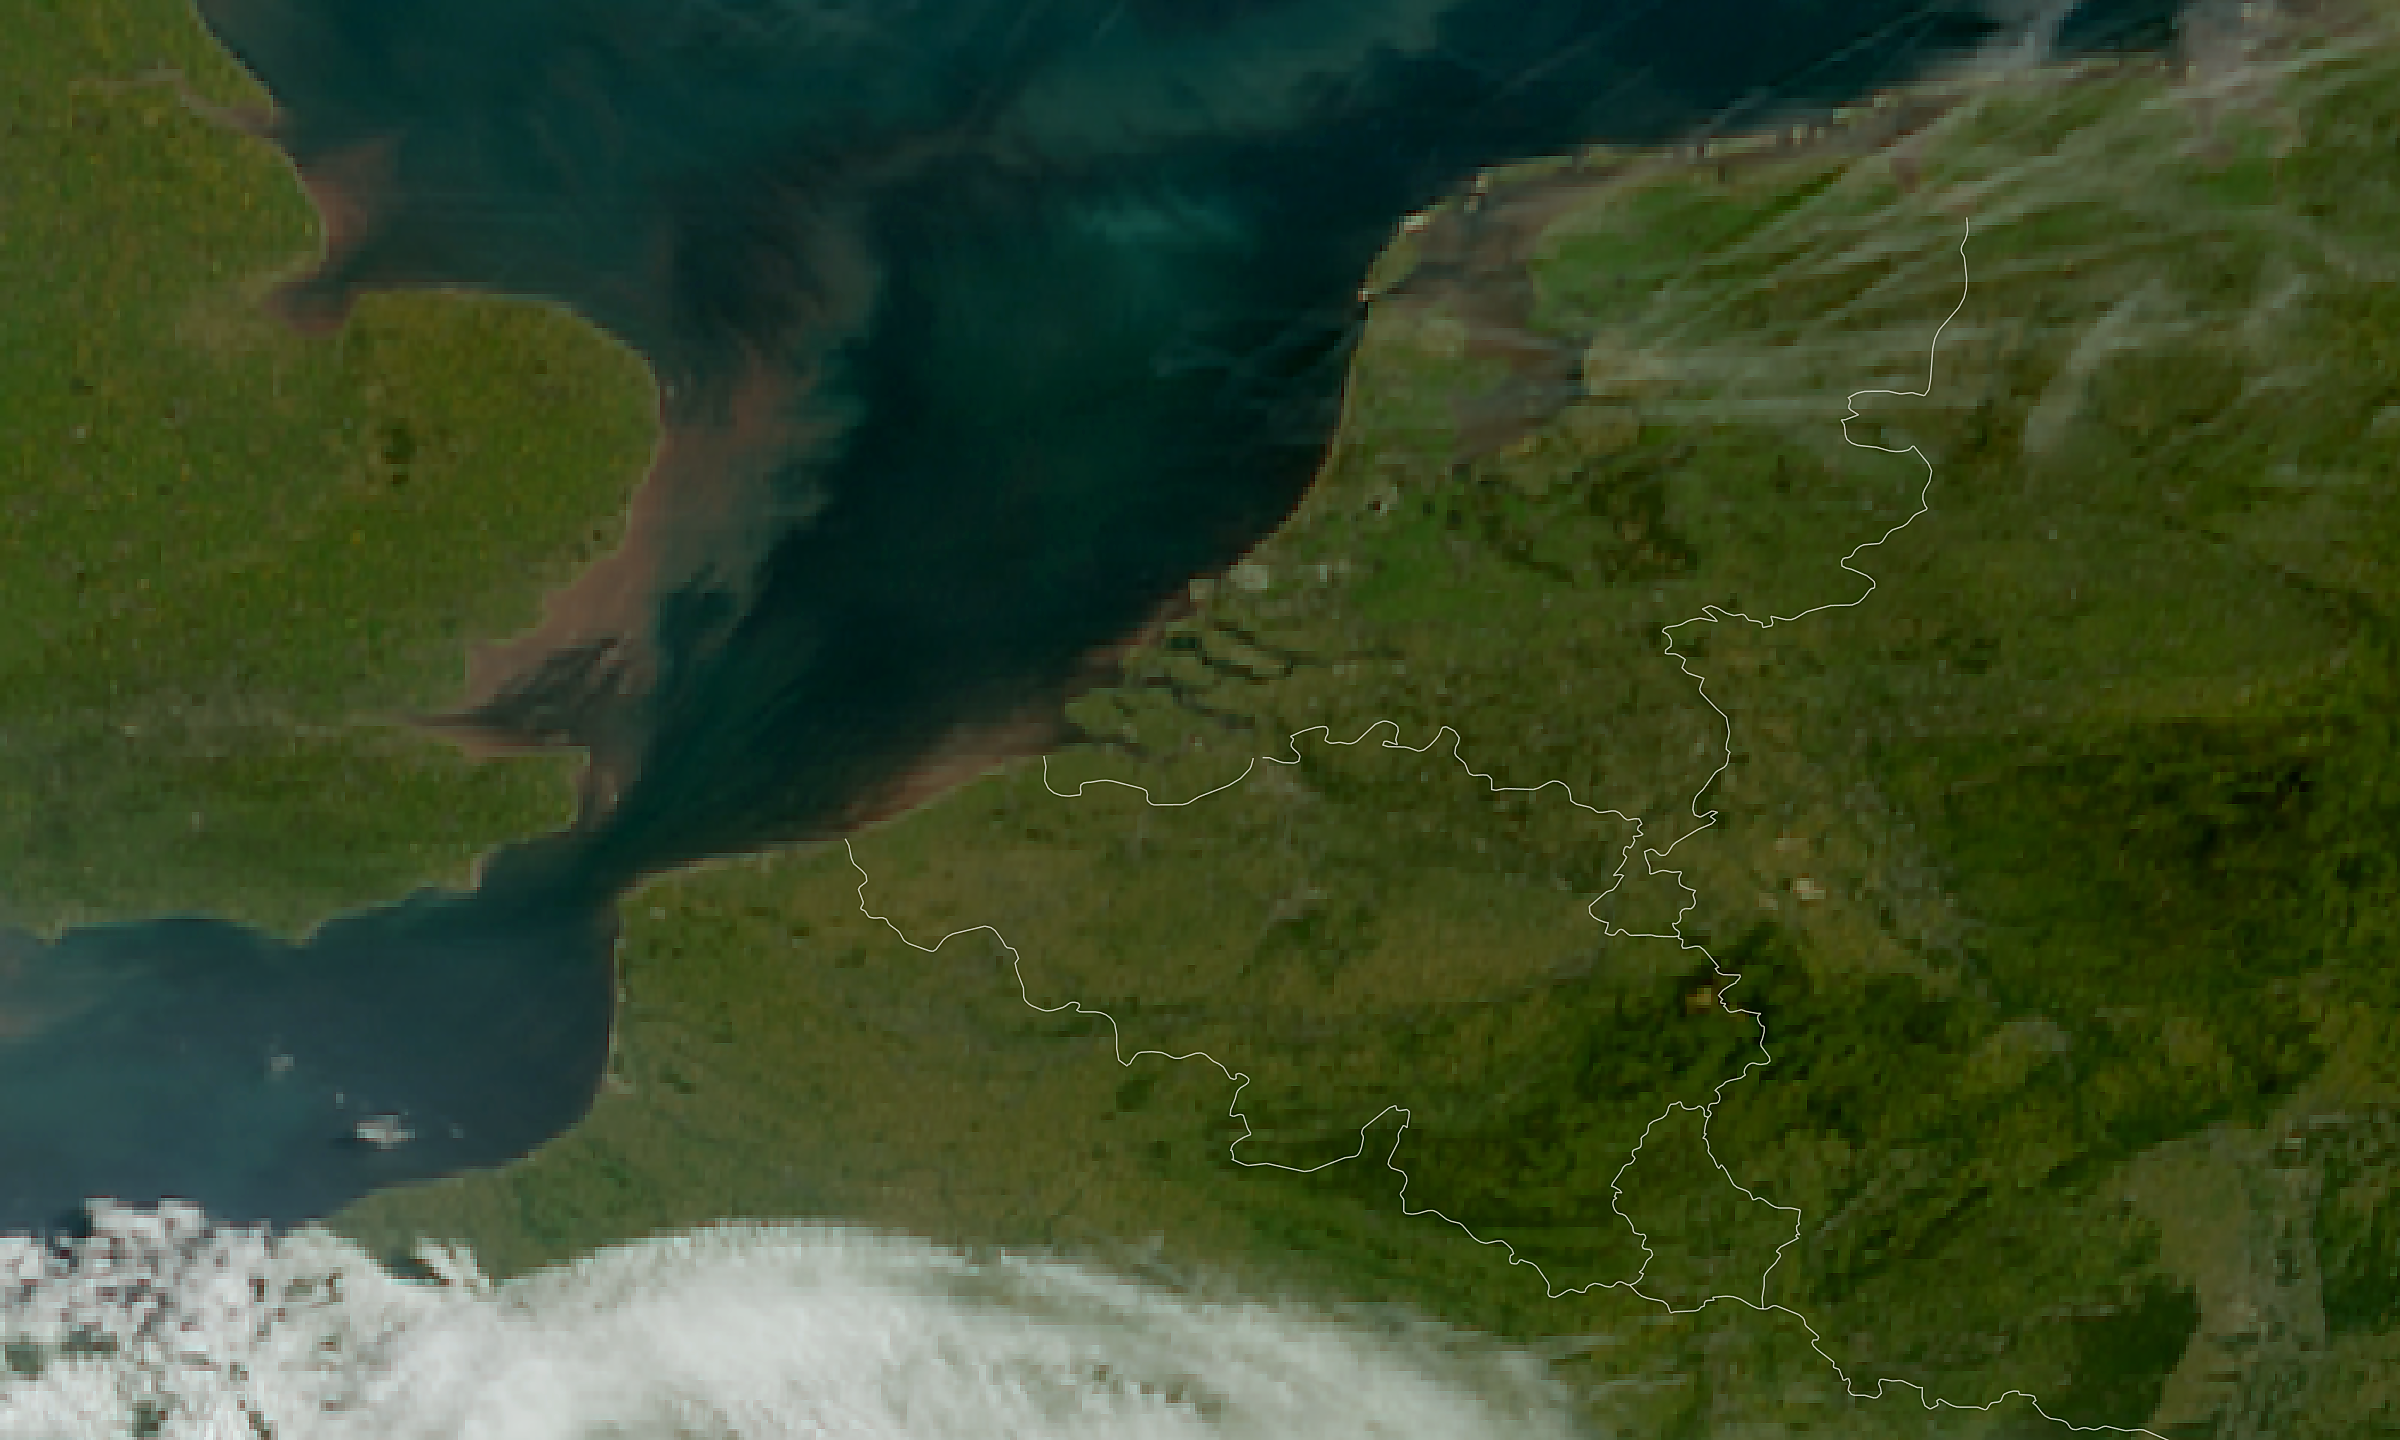
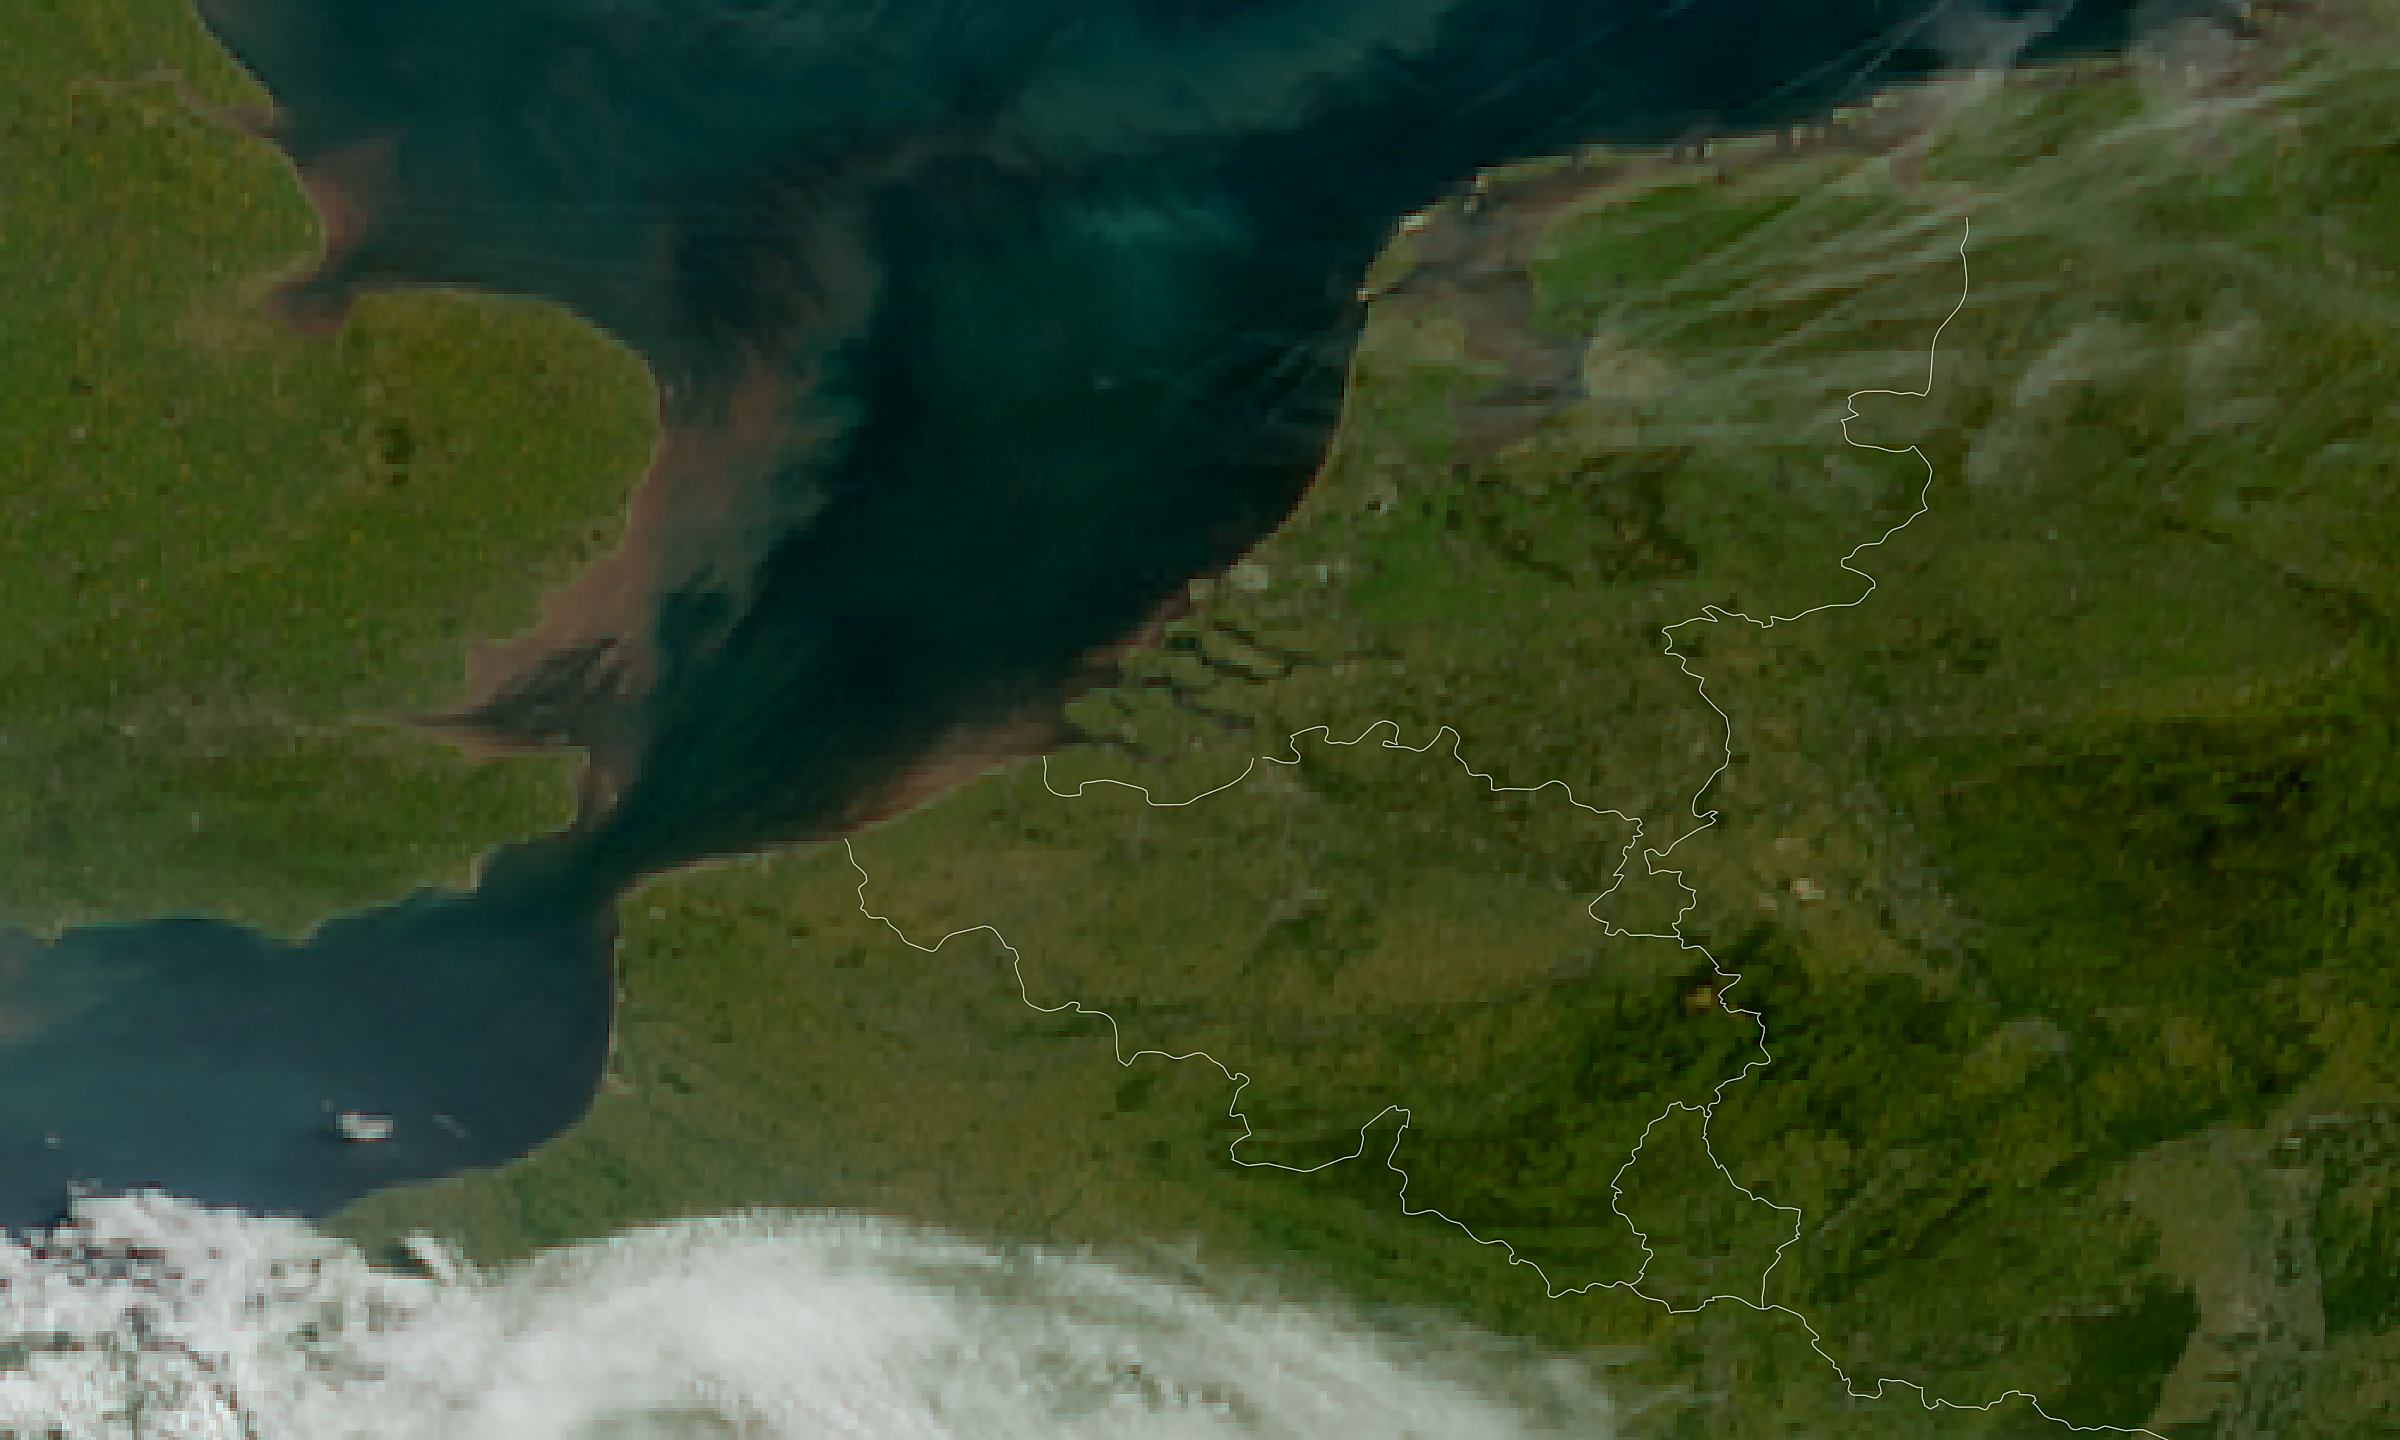
MTG Benelux satellietbeeld update 2026-04-29 09:30

diff --git a/mtg_benelux_meta.js b/mtg_benelux_meta.js
@@ -1,2 +1,2 @@
 const MTG_BENELUX_PRODUCT = "mtg_fd:rgb_truecolour";
-const MTG_BENELUX_TIJD = "2026-04-29T06:50:00Z";
+const MTG_BENELUX_TIJD = "2026-04-29T07:10:00Z";
